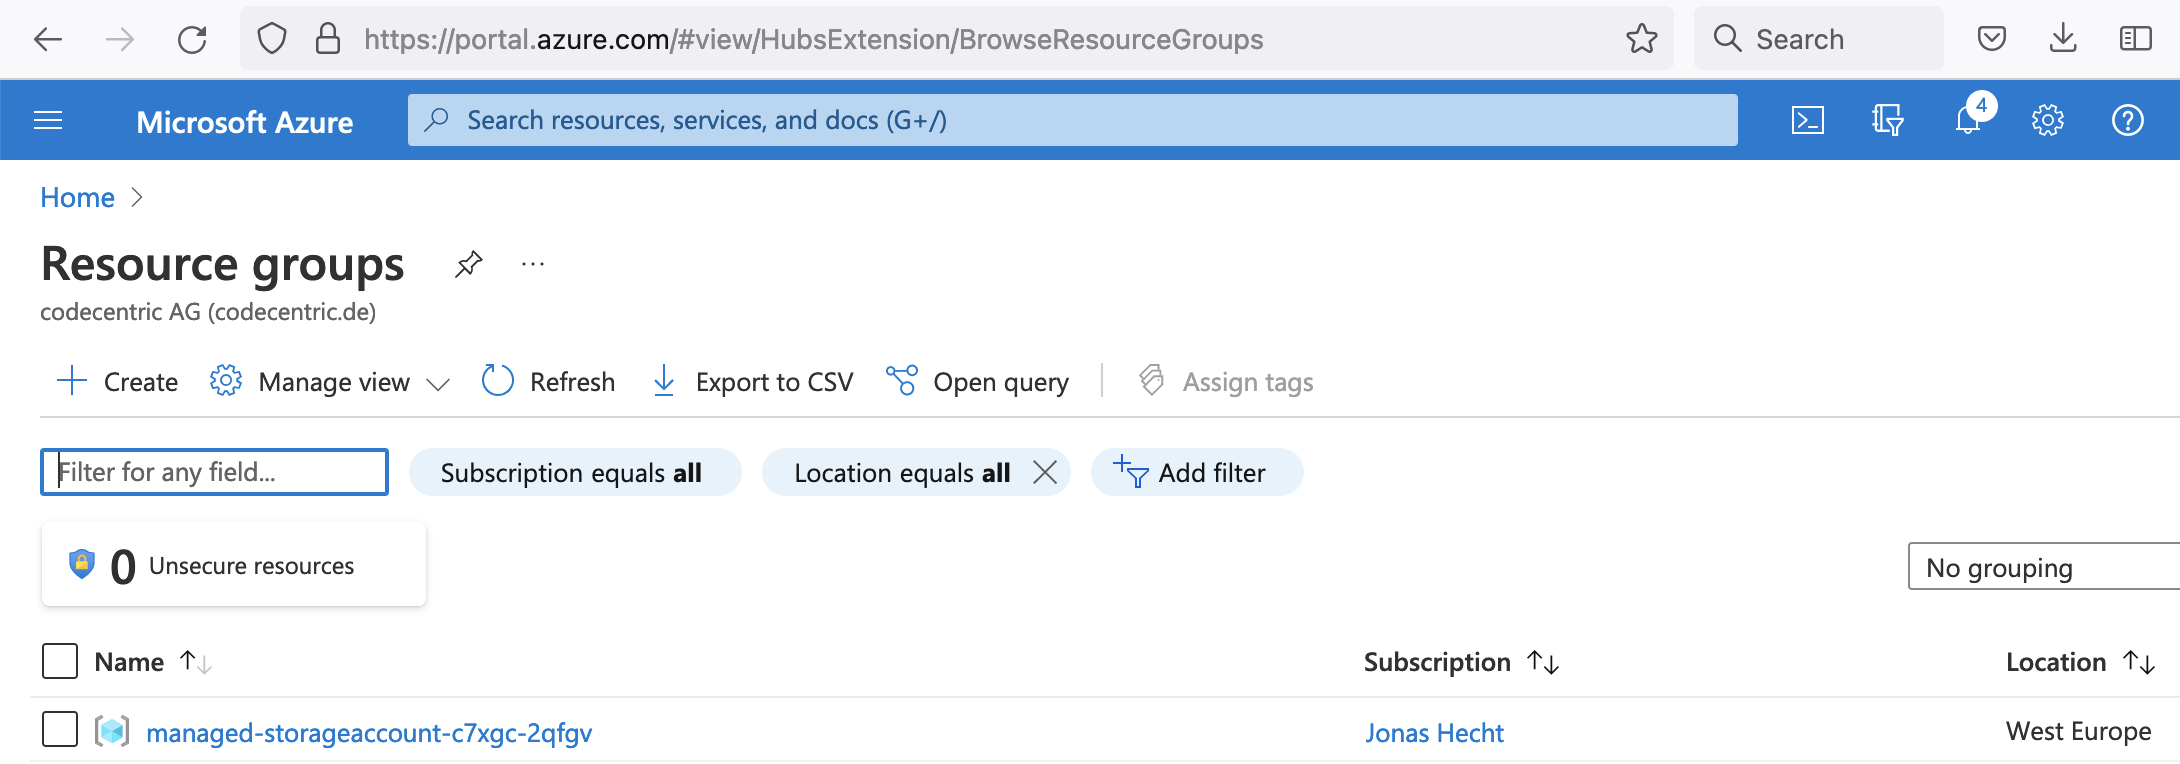
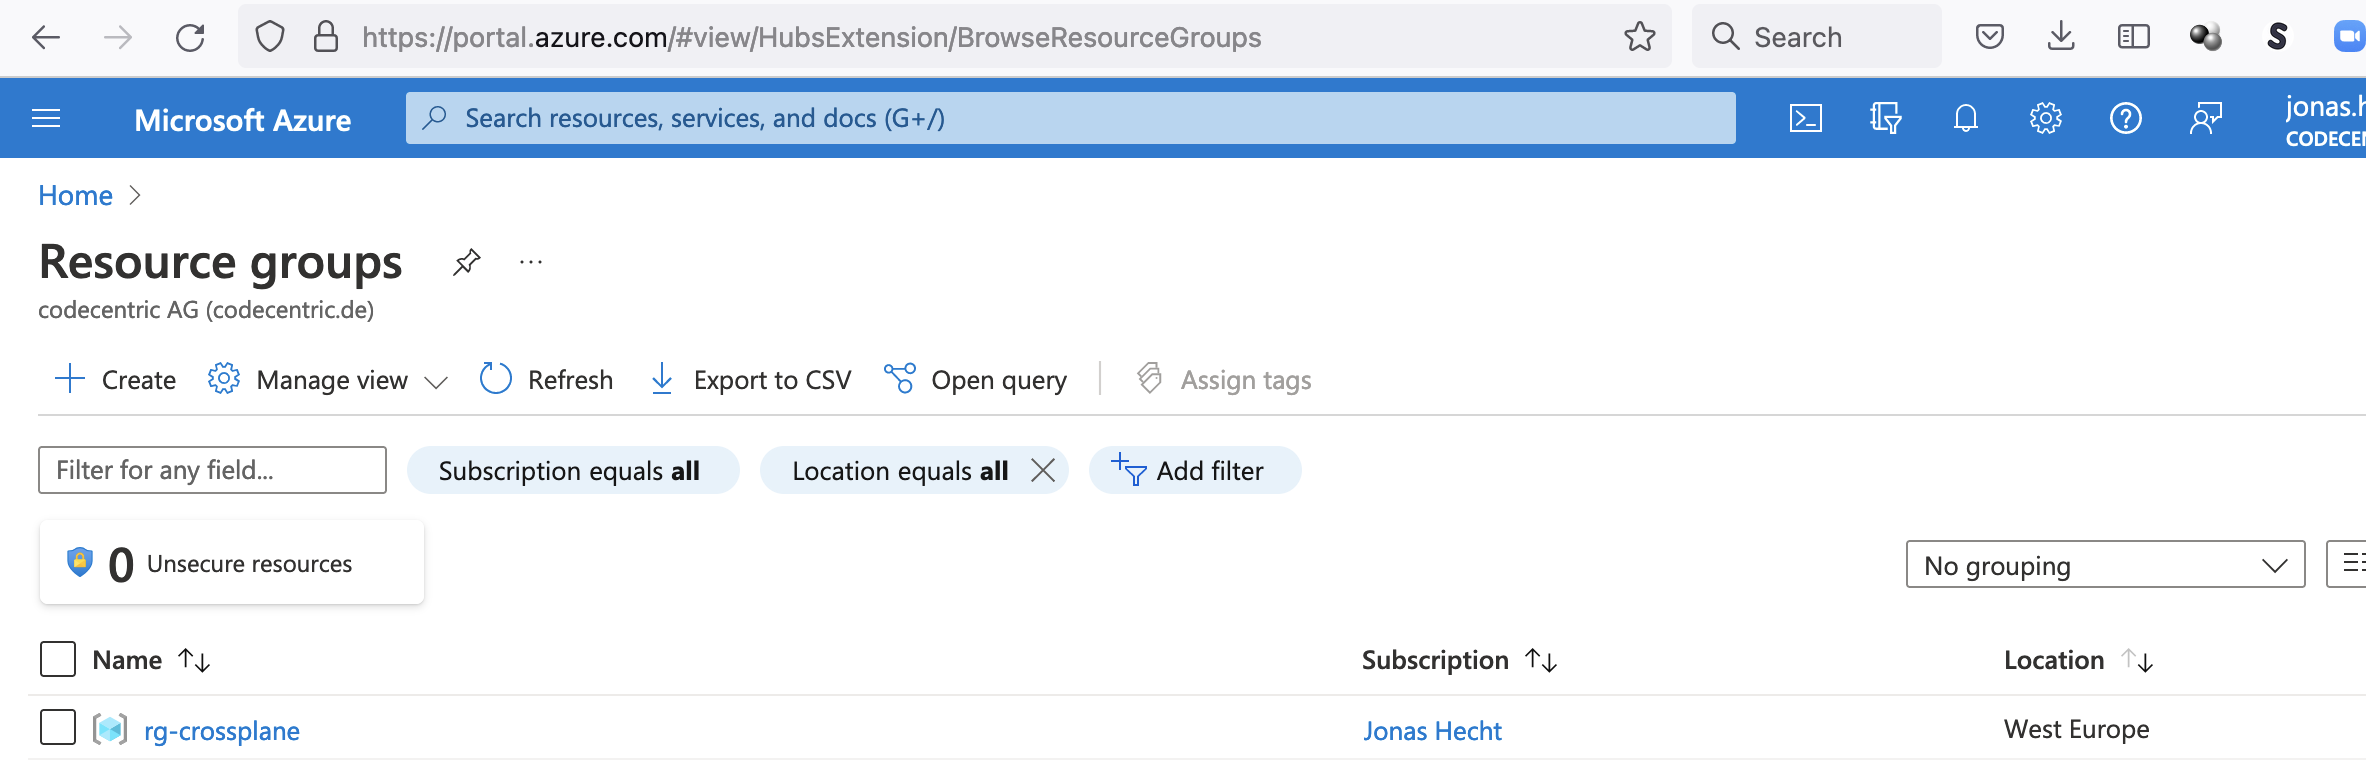
#5: Fully locally working provisioning of resourceGroup and storage account

diff --git a/README.md b/README.md
@@ -821,7 +821,7 @@ Therefore we can have a look into the Crossplane AWS provider API docs: https://
 
 ### Defining a CompositeResourceDefinition (XRD) for our Storage Account
 
-So our Composite Resource Definition (XRD) for our S3 Bucket could look like [crossplane-storageaccount/xrd.yaml](crossplane-storageaccount/xrd.yaml):
+So our Composite Resource Definition (XRD) for our Storage Account could look like [crossplane-storageaccount/xrd.yaml](crossplane-storageaccount/xrd.yaml):
 
 ```yaml
 ---
@@ -858,8 +858,14 @@ spec:
                 properties:
                   location:
                     type: string
+                  resourceGroupName:
+                    type: string
+                  storageAccountName:
+                    type: string
                 required:
                   - location
+                  - resourceGroupName
+                  - storageAccountName
 ```
 
 Install the XRD into our cluster with:
@@ -903,15 +909,18 @@ spec:
         kind: Account
         metadata: {}
         spec:
-          resourceGroupName: resourcegroup
           storageAccountSpec: 
             kind: Storage
             sku:
               name: Standard_LRS
               tier: Standard
       patches:
-        - fromFieldPath: "spec.parameters.location"
-          toFieldPath: "specstorageAccountSpec.location"
+        - fromFieldPath: spec.parameters.storageAccountName
+          toFieldPath: metadata.name
+        - fromFieldPath: spec.parameters.resourceGroupName
+          toFieldPath: spec.resourceGroupName
+        - fromFieldPath: spec.parameters.location
+          toFieldPath: spec.storageAccountSpec.location
           
     - name: resourcegroup
       base:
@@ -920,8 +929,10 @@ spec:
         kind: ResourceGroup
         metadata: {}
       patches:
-        - fromFieldPath: "spec.parameters.location"
-          toFieldPath: "spec.location"
+        - fromFieldPath: spec.parameters.resourceGroupName
+          toFieldPath: metadata.name
+        - fromFieldPath: spec.parameters.location
+          toFieldPath: spec.location
 ```
 
 Install our Composition with 
@@ -946,13 +957,14 @@ apiVersion: crossplane.jonashackt.io/v1alpha1
 kind: StorageAzure
 metadata:
   namespace: default
-  name: managed-storageaccount
+  name: account
 spec:
   compositionRef:
     name: storageazure-composition
   parameters:
     location: West Europe
-
+    resourceGroupName: rg-crossplane
+    storageAccountName: account4c8672e
 ```
 
 
@@ -966,6 +978,9 @@ Now have a look into the Azure Portal. Our Resource Group should show up:
 
 ![azure-console-resourcegroup](screenshots/azure-console-resourcegroup.png)
 
+And also our Storage account should be visible inside the group:
+
+![azure-console-storageaccount](screenshots/azure-console-storageaccount.png)
 
 
 
